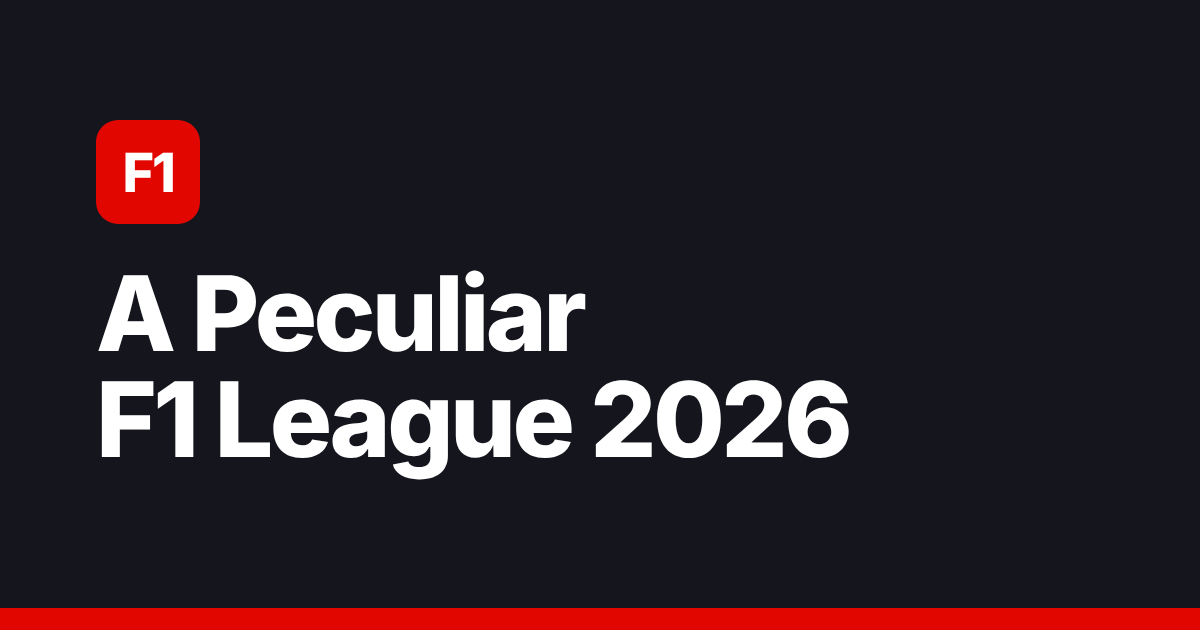
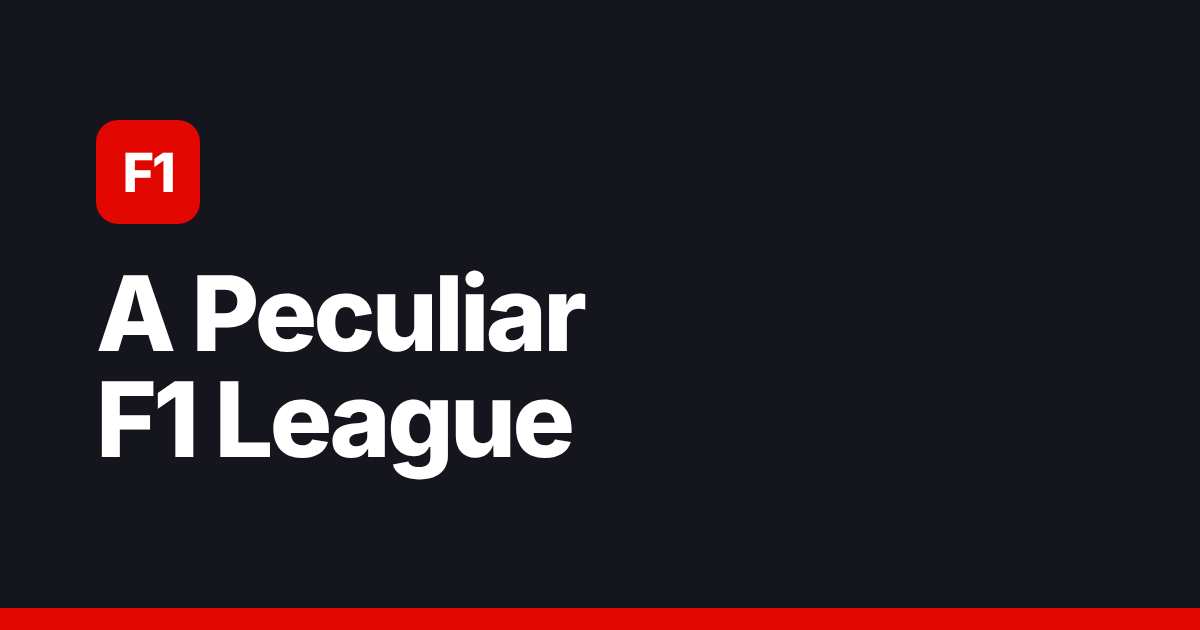
Drop the year from the link preview
Claude-Session: https://claude.ai/code/session_01LekiCFmvJgQKVDFfsUc5nW

Changed region(s): [[0.4933, 0.6032, 0.7092, 0.7238]]

diff --git a/index.html b/index.html
@@ -5,9 +5,9 @@
     <meta name="viewport" content="width=device-width, initial-scale=1.0" />
     <meta name="color-scheme" content="light dark" />
     <title>A Peculiar F1 League 2026</title>
-    <meta name="description" content="Standings, race recaps and chip stats for A Peculiar F1 League 2026." />
+    <meta name="description" content="Standings, race recaps and chip stats for A Peculiar F1 League." />
     <meta property="og:type" content="website" />
-    <meta property="og:title" content="A Peculiar F1 League 2026" />
+    <meta property="og:title" content="A Peculiar F1 League" />
     <meta property="og:description" content="Standings, race recaps and chip stats." />
     <meta property="og:url" content="https://a-peculiar-f1-league.vercel.app/" />
     <meta property="og:image" content="https://a-peculiar-f1-league.vercel.app/og.png" />
